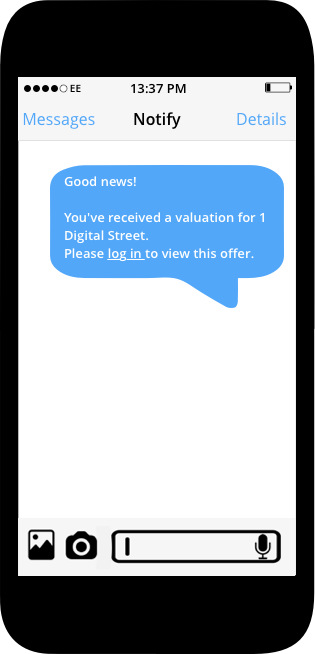
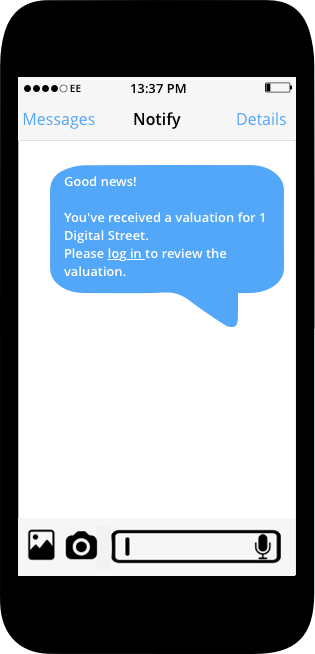
Add notify mobile view screens, interstitial screens

Changed region(s): [[0.1429, 0.367, 0.9143, 0.5199]]

diff --git a/app/views/v1/property-record.html b/app/views/v1/property-record.html
@@ -15,12 +15,12 @@
                     <p class="govuk-body">
                             Now we know that you’re the registered owner of this property you can:
                             <ul class="govuk-list govuk-list--bullet">
-                                <li>put your property on the market</li>
+                                <li>sell your property</li>
                                 <li>view the details HMLR hold on your property</li>
                                 <li>view and change the details HMLR hold about you</li>
                                 <li>share your property record with others, for example your solicitor</li>
                             </ul>
-                        <a class="govuk-button govuk-!-margin-bottom-1" href='/v1/seller-pre-contract-enquiries'>Sell this property</a>
+                        <a class="govuk-button govuk-!-margin-top-2 govuk-!-margin-bottom-1" href='/v1/seller-pre-contract-enquiries'>Sell this property</a>
                     </p>
                 </div>
 
@@ -30,8 +30,8 @@
                         Good news!
                     </h2>
                     <p class="govuk-body">
-                        You can now share your property record with a certified solicitor to act on your behalf<br>
-                        <a class="govuk-link" href='/v1/seller-delegate-access'>Share property record</a>
+                        You can now share your property record with a certified estate agent to act on your behalf<br>
+                        <a class="govuk-button govuk-!-margin-top-2 govuk-!-margin-bottom-1" href='/v1/seller-delegate-access'>Share property record</a>
                     </p>
                 </div>
             {% elseif notification == 'valuation' %}
@@ -41,7 +41,7 @@
                     </h2>
                     <p class="govuk-body">
                         You've received a valuation for 1 Digital Street<br>
-                        <a class="govuk-button" href='#current-valuation'>Review this valuation</a>
+                        <a class="govuk-button govuk-!-margin-top-2 govuk-!-margin-bottom-1" href='/v1/seller-review-valuation'>Review this valuation</a>
                     </p>
                 </div>
             {% elseif notification == 'offer' %}
@@ -51,7 +51,7 @@
                     </h2>
                     <p class="govuk-body">
                         You've received an offer for 1 Digital Street<br>
-                        <a class="govuk-link" href='/v1/seller-review-offer'>Review this offer</a>
+                        <a class="govuk-button govuk-!-margin-top-2 govuk-!-margin-bottom-1" href='/v1/seller-review-offer'>Review this offer</a>
                     </p>
                 </div>
             {% elseif notification == 'offer_accepted' %}
@@ -60,8 +60,8 @@
                         Good news!
                     </h2>
                     <p class="govuk-body">
-                        You can now sign your sales contract<br>
-                        <a href='/v1/seller-agree-to-sell'>View sales contract</a>
+                        Now you've accepted an offer for your property, you can share your property record with your solicitor.<br>
+                        <a class="govuk-button govuk-!-margin-top-2 govuk-!-margin-bottom-1" href='/v1/seller-delegate-access'>Share property record</a>
                     </p>
                 </div>
             {% elseif notification == 'draft_contract' %}
@@ -70,8 +70,18 @@
                         Good news!
                     </h2>
                     <p class="govuk-body">
-                        Your solicitor has drafted a sales contract and added it to your logbook<br>
-                        <a href='/v1/seller-draft-sales-contract'>View draft contract</a>
+                        Your draft sales contract is ready for review<br>
+                        <a class="govuk-button govuk-!-margin-top-2 govuk-!-margin-bottom-1" href='/v1/seller-draft-sales-contract'>Review draft contract</a>
+                    </p>
+                </div>
+            {% elseif notification == 'sales_contract' %}
+                <div class="govuk-error-summary" style="border: 3px solid #005ea5" aria-labelledby="error-summary-title" role="alert" tabindex="-1" data-module="error-summary">
+                    <h2 class="govuk-error-summary__title" id="error-summary-title">
+                        Good news!
+                    </h2>
+                    <p class="govuk-body">
+                        You can now sign your sales contract and transfer of ownership<br>
+                        <a class="govuk-button govuk-!-margin-top-2 govuk-!-margin-bottom-1" href='/v1/seller-agree-to-sell'>Sign contracts</a>
                     </p>
                 </div>
             {% endif %}

diff --git a/app/views/v1/routes.js b/app/views/v1/routes.js
@@ -18,20 +18,22 @@ router.get('/property-record', function(req, res) {
         } else if (lastEndpoint == 'seller-pre-contract-enquiries') {
             req.session.role = 'seller'
             notification = 'information'
-        } else if (lastEndpoint == 'seller-estate-agent-adds-valuation') {
+        } else if (lastEndpoint == 'seller-notify-valuation') {
             notification = 'valuation'
             req.session.valuation = {
                 "price": "£250,000",
                 "valuer": "Movr",
                 "date": "25 July 2018"
             }
-        } else if (lastEndpoint == 'seller-solicitor-drafts-contract') { 
-            notification = 'draft_contract'
-        } else if (lastEndpoint == 'seller-receives-offer') {
+        } else if (lastEndpoint == 'seller-notify-offer') {
             req.session.offer = "£250,000"
             notification = 'offer'
         } else if (lastEndpoint == 'seller-review-offer') {
             req.session.offer_accepted = new Date().toLocaleDateString('en-GB')
+            notification = 'offer_accepted'
+        } else if (lastEndpoint == 'seller-notify-review-contract') { 
+            notification = 'draft_contract'
+        } else if (lastEndpoint == 'seller-notify-sign-contracts') { 
             notification = 'sales_contract'
         } else if (lastEndpoint == 'seller-sale-confirmation') {            
             req.session.role = ''
@@ -41,7 +43,7 @@ router.get('/property-record', function(req, res) {
     res.render(path.resolve(__dirname, './property-record.html'), 
         { 
             notification: notification,
-            // notification: "registered", 
+            // notification: "draft_accepted", 
             offer: req.session.offer,
             // offer: "£250,000",
             offer_accepted: req.session.offer_accepted,
@@ -125,6 +127,9 @@ router.get('/seller-upload-documents', function(req, res) {
     res.render(path.resolve(__dirname, './seller-upload-documents.html'), { role: req.session.role})
 })
 
+router.get('/notify', function(req, res) {
+
+})
 // Buyer routes below here...
 
 router.get('/buyer-marketplace', function(req, res) {

diff --git a/app/views/v1/seller-review-offer.html b/app/views/v1/seller-review-offer.html
@@ -1,7 +1,7 @@
 {% extends "generic-layout.html" %}
 
 {% block pageStyles %}
-<link href="https://stackpath.bootstrapcdn.com/bootswatch/4.1.3/minty/bootstrap.min.css" rel="stylesheet" integrity="sha384-Qt9Hug5NfnQDGMoaQYXN1+PiQvda7poO7/5k4qAmMN6evu0oDFMJTyjqaoTGHdqf" crossorigin="anonymous">
+<link href="https://stackpath.bootstrapcdn.com/bootswatch/4.1.2/pulse/bootstrap.min.css" rel="stylesheet" integrity="sha384-J7kOMHmyCHLNgMkMNyYuEvEZfdApW59rmw1I94S42EBym3qwLozQi2LGSOzIDRWW" crossorigin="anonymous">
 <link rel="stylesheet" href="https://use.fontawesome.com/releases/v5.2.0/css/all.css" integrity="sha384-hWVjflwFxL6sNzntih27bfxkr27PmbbK/iSvJ+a4+0owXq79v+lsFkW54bOGbiDQ" crossorigin="anonymous">
 <link rel="stylesheet" href="/public/stylesheets/generic.css">
 {% endblock %}
@@ -11,7 +11,7 @@
 {% endblock %}
 
 {% block navbar %}
-{% include 'includes/conveyit_navbar.html' %}
+{% include 'includes/movr_navbar.html' %}
 {% endblock %}
 
 {% block content %}

diff --git a/app/views/v1/seller-draft-sales-contract.html b/app/views/v1/seller-draft-sales-contract.html
@@ -19,7 +19,7 @@
 
 <div class="row" style="margin-bottom: 50px;">
   <div class="col-8">
-    <p class="lead">If you're happy with the sales contract, then you can invite the buyer's solicitor to view the contract.</p>
+    <p class="lead">If you're happy with the sales contract, then the buyer's solicitor will be invited to view the contract.</p>
 
     <section class="contract-section">
       <h2>Sales contract</h2><br>
@@ -59,7 +59,7 @@
 
       <small><strong>HM Land Registry internal reference number: </strong>E-A12788</small>
     </section>
-    <a class="btn btn-primary" href="/v1/seller-delegate-access">Agree and invite</a>
+    <a class="btn btn-primary" href="/v1/seller-buyer-agrees-contract">Agree</a>
   </div>
 </div>
 

diff --git a/app/views/v1/seller-buyer-agrees-contract.html b/app/views/v1/seller-buyer-agrees-contract.html
@@ -1,15 +1,15 @@
 {% extends 'lr-layout.html' %}
 
 {% block pageTitle %}
-    Solictor drafts contract
+    Buyer agrees contract
 {% endblock %}
 
 {% block content %}
 <section class="jumbotron text-center">
     <div class="container">
         <h1 class="jumbotron-heading"><i class="far fa-clock fa-2x"></i></h1>
-        <p class="lead text-muted">Your solicitor drafts a sales contract and adds it to your property record.</p>
-        <a class="btn btn-primary" href="/v1/seller-notify-sales-contract">Continue</a>
+        <p class="lead text-muted">The buyer agrees to the draft contract.</p>
+        <a class="btn btn-primary" href="/v1/seller-notify-sign-contracts">Continue</a>
     </div>
 </section>
 {% endblock %}

diff --git a/app/views/index.html b/app/views/index.html
@@ -19,8 +19,8 @@
         Click the 'Clear data' link in the footer to remove any session data and reset the prototype. 
       </p>
       <h2 class="govuk-heading-l">Versions</h2>
-      <!-- <h3 class="govuk-heading-m">Version 1</h3>      
-      <p><a href="/v1/seller-start-page">Sell land or property</a></p> -->
+      <h3 class="govuk-heading-m">Version 1</h3>      
+      <p><a href="/v1/seller-start-page">Sell land or property</a></p>
       <h3 class="govuk-heading-m">Version 0</h3>      
       <p><a href="/v0/seller-start-page">Sell land or property</a></p>
       <p><a href="/v0/buyer-agreement-in-principle">Buy land or property</a></p>

diff --git a/app/views/v1/seller-estate-agent-adds-valuation.html b/app/views/v1/seller-estate-agent-adds-valuation.html
@@ -8,8 +8,8 @@
 <section class="jumbotron text-center">
     <div class="container">
         <h1 class="jumbotron-heading"><i class="far fa-clock fa-2x"></i></h1>
-        <p class="lead text-muted">Estate agent accepts invitation and adds valuation to property record.</p>
-        <a class="btn btn-primary" href="/v1/property-record">Continue</a>
+        <p class="lead text-muted">Estate agent will use Identify to certify themselves. They’ll then be allowed access to your property record.</p>
+        <a class="btn btn-primary" href="/v1/seller-notify-valuation">Continue</a>
     </div>
 </section>
 {% endblock %}

diff --git a/app/views/v1/seller-receives-offer.html b/app/views/v1/seller-receives-offer.html
@@ -8,8 +8,8 @@
 <section class="jumbotron text-center">
     <div class="container">
         <h1 class="jumbotron-heading"><i class="far fa-clock fa-2x"></i></h1>
-        <p class="lead text-muted">The estate agent receives an offer on the property, and adds it to the record.</p>
-        <a class="btn btn-primary" href="/v1/property-record">Continue</a>
+        <p class="lead text-muted">After several viewings, the estate agent receives an offer on the property and adds it to the record.</p>
+        <a class="btn btn-primary" href="/v1/seller-notify-offer">Continue</a>
     </div>
 </section>
 {% endblock %}

diff --git a/app/views/v1/seller-sale-confirmation.html b/app/views/v1/seller-sale-confirmation.html
@@ -17,7 +17,7 @@
 {% block content %}
 <div class="jumbotron text-center">
     <h1>You've sold 1 Digital Street</h1><br>
-    <p class="lead"><strong>Your lender has confirmed receipt of £265,000</strong></p>
+    <p class="lead"><strong>Your lender has confirmed receipt of £250,000</strong></p>
     <p class="lead"><strong>Your mortgage has been paid off</strong></p>
     <p class="lead"><strong>Please hand the keys to your estate agent</strong></p><br>
     <p class="lead">You can now view the <a href="/v1/property-record">updated title register</a></p>

diff --git a/app/views/v1/seller-notify-review-contract.html b/app/views/v1/seller-notify-review-contract.html
@@ -1,0 +1,10 @@
+{% extends "generic-layout.html" %}
+
+{% block pageTitle %}
+    Notify
+{% endblock %}
+
+
+{% block content %}
+<a href="/v1/property-record.html"><img src="/public/images/notify review sales contract.png"></a>
+{% endblock %}

diff --git a/app/views/v1/seller-notify-sign-contracts.html b/app/views/v1/seller-notify-sign-contracts.html
@@ -1,0 +1,10 @@
+{% extends "generic-layout.html" %}
+
+{% block pageTitle %}
+    Notify
+{% endblock %}
+
+
+{% block content %}
+<a href="/v1/property-record.html"><img src="/public/images/notify sign contracts.png"></a>
+{% endblock %}

diff --git a/app/views/v1/seller-notify-valuation.html b/app/views/v1/seller-notify-valuation.html
@@ -1,0 +1,10 @@
+{% extends "generic-layout.html" %}
+
+{% block pageTitle %}
+    Notify
+{% endblock %}
+
+
+{% block content %}
+<a href="/v1/property-record.html"><img src="/public/images/notify valuation.png"></a>
+{% endblock %}
